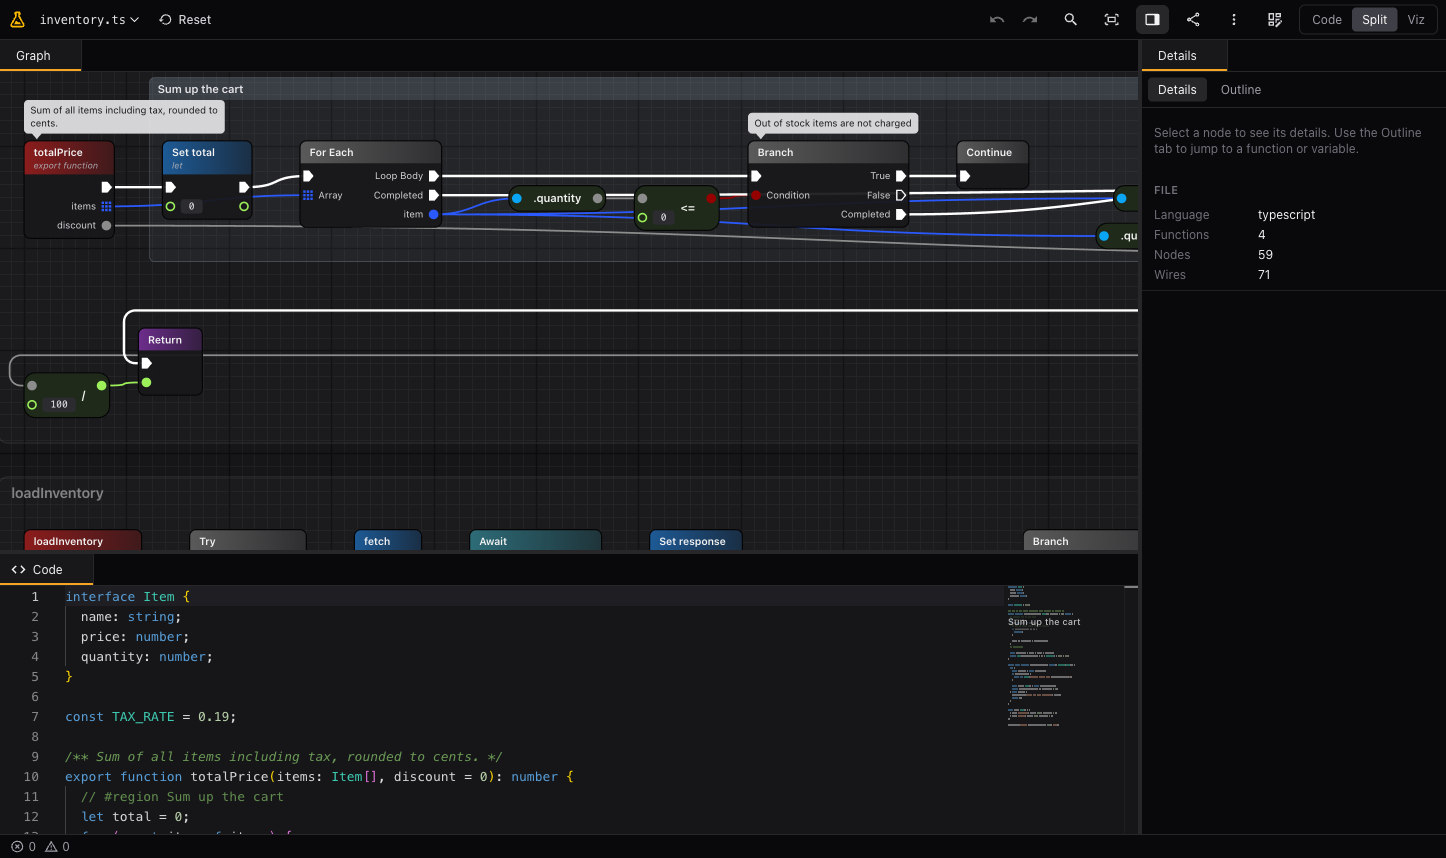
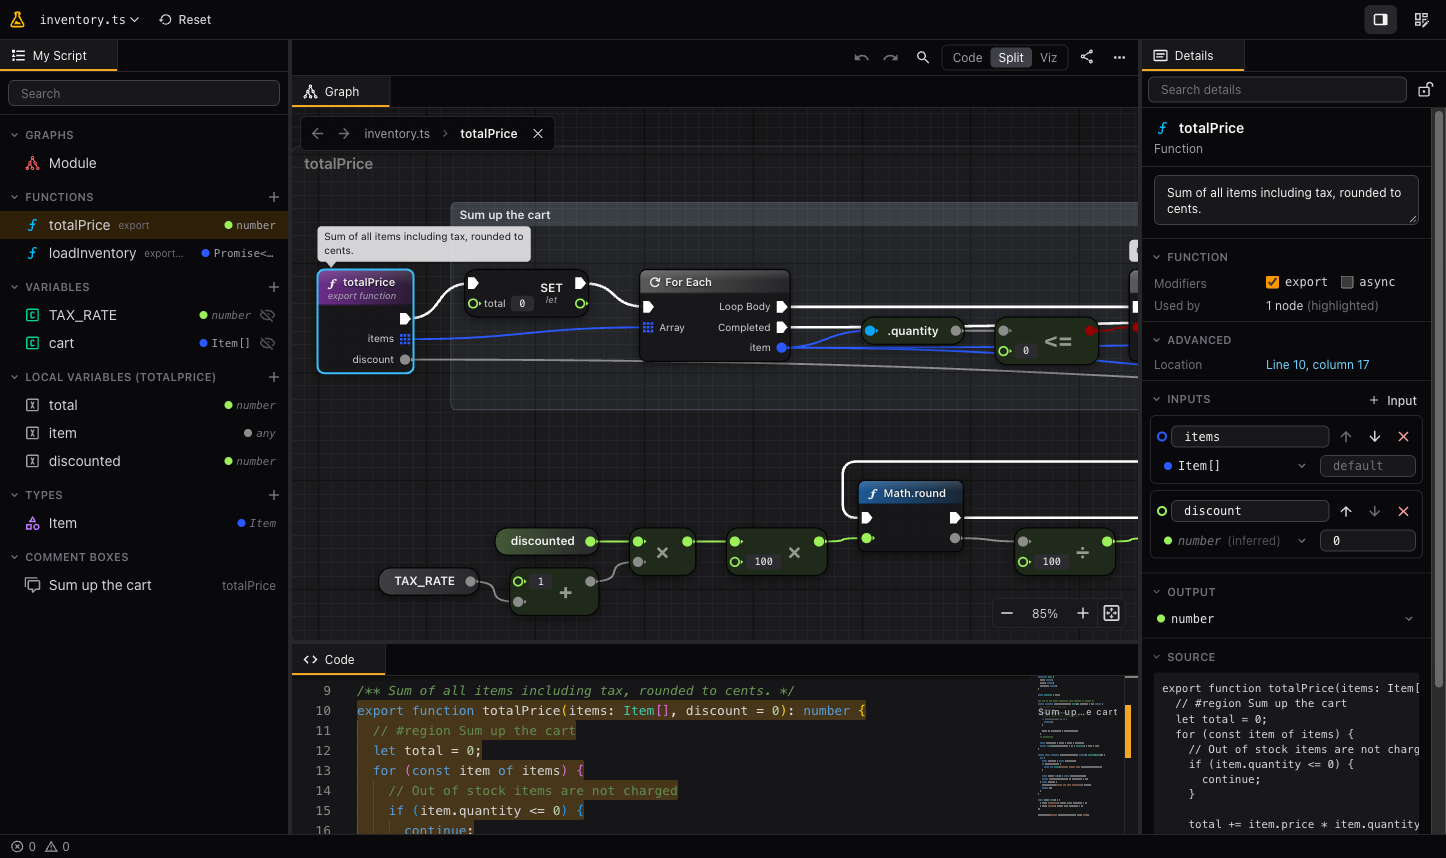
docs: new screenshot and node look in the README

diff --git a/README.md b/README.md
@@ -2,7 +2,7 @@
 
 Visualize source code as Unreal-Engine-Blueprint-style node graphs.
 
-![A TypeScript function shown as a node graph above its code, with a comment box, comment bubbles and a For Each loop](docs/screenshot.png)
+![A TypeScript function shown as a node graph above its code, with a comment box, a comment bubble and a For Each loop, next to the My Script and Details panels](docs/screenshot.png)
 
 Open a repository and pick a script. vizscript shows it as code, as a node graph, or both side by side, and keeps them in sync. The graph has two kinds of wires:
 
@@ -15,9 +15,9 @@ Editing the graph edits the code: every change becomes a minimal text edit, so f
 
 ## Highlights
 
-- **Blueprint concepts for any script.** Statements become nodes on the exec chain, expressions become pure nodes, and `if`, loops, `switch` and `try` become flow-control nodes. Every function gets its own graph; double-click one to see it on its own, like UE's graph tabs, with a breadcrumb and back / forward (the link keeps it, `?fn=`). Nodes look like UE's: functions start with a purple entry node and events (the module's code, Godot callbacks and signal handlers) with a red one, headers carry ƒ, event, branch and loop icons, `await` gets the latent clock, and variables are set with compact SET nodes.
+- **Blueprint concepts for any script.** Statements become nodes on the exec chain, expressions become pure nodes, and `if`, loops, `switch` and `try` become flow-control nodes. Every function gets its own graph; double-click one to see it on its own, like UE's graph tabs, with a breadcrumb and back / forward (the link keeps it, `?fn=`). Nodes look like UE's: functions start with a purple entry node and events (the module's code, Godot callbacks and signal handlers) with a red one, headers carry ƒ, event, branch and loop icons, `await` gets the latent clock, variables are set with compact SET nodes, Get pills are tinted with their type's color, operators show as one large symbol (`×`, `+`, `==`), and a method's own object shows as a `self` box on the Target pin instead of a wire.
 - **Code and graph stay linked.** Hovering or selecting nodes highlights their code; moving the cursor in the editor highlights the matching node. Double-click a node to jump to its code.
-- **Call nodes show the whole signature.** Calling a function of the file, or one imported from another file of the repository, shows one pin per parameter, named and typed like it; missing arguments are unconnected pins that fill in when you wire or type a value (in Python as `name=value`). Calls of other functions get more pins with "Add argument pin", like UE's Add pin. Right-click a pin for UE's pin menu: remove an argument pin, reset an argument to its parameter's default (the last one is left out), promote an output to a variable, or break one of its several links.
+- **Call nodes show the whole signature.** Calling a function of the file, or one imported from another file of the repository, shows one pin per parameter, named and typed like it; missing arguments are unconnected pins that fill in when you wire or type a value (in Python as `name=value`). Arguments left at their default fold behind a ▼ under the node, like UE's advanced pins. Calls of other functions get more pins with "Add argument pin", like UE's Add pin. Right-click a pin for UE's pin menu: remove an argument pin, reset an argument to its parameter's default (the last one is left out), promote an output to a variable, or break one of its several links.
 - **Use functions of other files.** The action menu also offers the functions and values exported by other files of the repository (nearest folders first). Picking one adds the node and writes the import in the file's own style (`import { a } from './x'`, `from x import a`, `const X = preload("res://x.gd")`), joined into an existing import of that file when there is one; one undo removes both.
 - **Libraries too.** Python's common standard-library modules (`math`, `json`, `os.path`, `re`, …) and the npm packages a TypeScript file imports from get their signatures, so their calls get pins and the action menu offers their other functions (`math.sqrt` adds `import math`, `computed` joins `import { ref } from 'vue'`). npm types are read from the packages' `.d.ts` files on [jsDelivr](https://www.jsdelivr.com/), at the version in your `package.json`.
 - **Flow control from the action menu.** For Each, counting `for`, `while`, `switch` / `match`, `try` / `catch`, `throw`, `break` and `continue`, written in the language's own syntax (GDScript has no `try`, Rust has `match`, `loop` and `while let`).
@@ -60,7 +60,7 @@ On phones the viewer is read-only: you can switch between code and graph, pan an
 - Commit graph edits back to the repository
 - Sign-in through Keycloak with GitHub as identity provider
 - GitLab provider
-- More languages (C#, Rust, Go, C++, Ruby, …)
+- More languages (C#, Go, C++, Ruby, …)
 - Real type information for pins in all typed languages (e.g. through the TypeScript language service), and with it the members of types from libraries and other files in the action menu (`response.ok`, `response.json()`)
 - Events in the action menu, like UE's "Add Event": GDScript callbacks (`_ready`, `_process`, `_input`) and signal handlers, overridable methods of a base class in TypeScript and Python
 - Disable a node, like UE's Enabled State (the statement is commented out)
